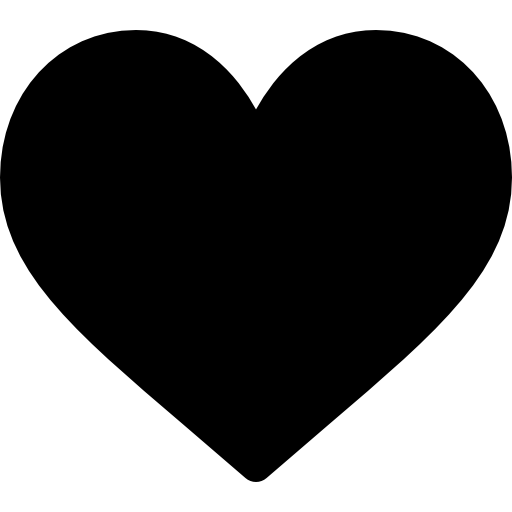
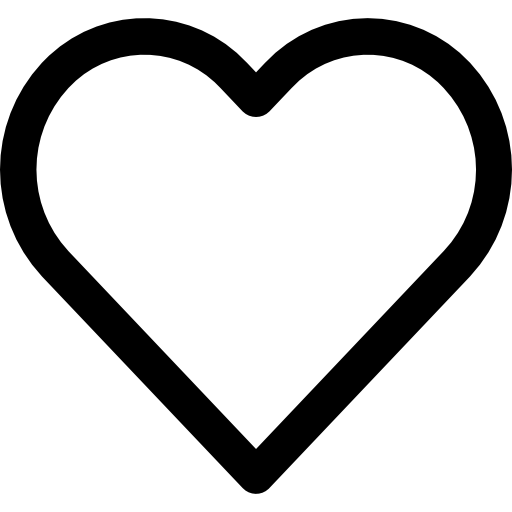
touch up styling

diff --git a/client/src/components/RandomTweet.js b/client/src/components/RandomTweet.js
@@ -5,6 +5,9 @@ import espnImage from '../images/espn.png';
 import laKingsImage from '../images/la_kings.png';
 import disneyImage from '../images/disney.png';
 import starWarsImage from '../images/star-wars.jpg';
+import LikesIcon from '../images/heart.png';
+import RetweetIcon from '../images/retweet.png';
+import { Card } from 'react-bootstrap';
 
 class RandomTweet extends Component {
     constructor(props) {
@@ -55,13 +58,27 @@ class RandomTweet extends Component {
                                     <button className='btn btn-dark btn-space' id='disneyButton' onClick={() => this.handleClick('disney')}>Disney</button>
                             </div>
                                     {this.state.tweet !== null ?
-                                        <div className='tweetCard'>
-                                            <p>username: {this.state.tweet.user.screen_name} </p>
-                                            <p>tweet: {this.state.tweet.text}</p>
-                                            <p>Retweets: {this.state.tweet.retweet_count}</p>
-                                            <p>Favorites: {this.state.tweet.favorite_count}</p>
-                                            <img src={this.state.tweet.user.profile_image_url} alt='user photo'/>
-                                        </div> :
+                                    <Card id='search-card'>
+                                        <Card.Header>
+                                            <Card.Img src={this.state.tweet.user.profile_image_url}
+                                                className='rounded-circle'
+                                                style={{ height: 45, width: 45 }} />
+                                            </Card.Header>
+                                            <Card.Body>
+                                                <Card.Title>{this.state.tweet.user.screen_name}</Card.Title>
+                                                <Card.Text>{this.state.tweet.text}</Card.Text>
+                                            </Card.Body>
+                                            <Card.Footer>
+                                                <small className='icon'>
+                                                    <img src={RetweetIcon} style={{ height: 20, width: 20 }} />
+                                                    {this.state.tweet.retweet_count}
+                                                </small>
+                                                <small className='icon'>
+                                                    <img src={LikesIcon} style={{ height: 20, width: 20 }} />
+                                                    {this.state.tweet.favorite_count}
+                                                </small>
+                                            </Card.Footer>
+                                        </Card> :
                                         null }
                                     
                                 </div>

diff --git a/client/src/components/TweetSearch.js b/client/src/components/TweetSearch.js
@@ -48,7 +48,8 @@ class TweetSearch extends Component {
             <div className='search-page-container'>
                 <div className='tweet-card'>
                     <div className='search-header'>
-                        <h3>Search for a Twitter user</h3>
+                            <h2>Search for a Twitter user</h2>
+                            <p>Use the input field below to search for a user within Twitters API</p>
                     </div>
                     <Form>
                         <Form.Group>
@@ -65,20 +66,20 @@ class TweetSearch extends Component {
                 </div>
                 <div className='search-tweet-container'>
                     {this.state.tweet.map((tweets, index) =>
-                        <Card key={index} id='search-card' style={{ width: '50%' }} className='bg-light'>
+                        <Card key={index} id='search-card'>
                                 <Card.Header>
-                                    <Card.Img className='rounded-circle' variant='top' src={tweets.user.profile_image_url} style={{height: 50, width: 50}} />
-                                    <Card.Title>{tweets.user.screen_name}</Card.Title>
+                                    <Card.Img className='rounded-circle' variant='top' src={tweets.user.profile_image_url} style={{height: 45, width: 45}} />
                                 </Card.Header>
                                 <Card.Body>
+                                    <Card.Title>{tweets.user.screen_name}</Card.Title>
                                     <Card.Text>{tweets.text}</Card.Text>
                                 </Card.Body>
                                 <Card.Footer>
-                                <small>
+                                <small className='icon'>
                                     <img src={RetweetIcon} style={{height: 20, width: 20}} />
                                         {tweets.retweet_count}
                                 </small>
-                                <small>
+                                <small className='icon'>
                                     <img src={LikesIcon} style={{height: 20, width: 20}} />
                                     {tweets.favorite_count}
                                 </small>

diff --git a/client/src/components/HomePage.js b/client/src/components/HomePage.js
@@ -1,5 +1,6 @@
 import React from 'react';
 import 'bootstrap/dist/css/bootstrap.min.css';
+import { Jumbotron, Card } from 'react-bootstrap';
 import axios from 'axios';
 
 
@@ -9,12 +10,20 @@ class HomePage extends React.Component {
     }
     render() {
     return (
-            <div className='page-container'>
+            <div>
                 <main>
-                    <div>
-                    <h2>Welcome to the Twitter Showcase App</h2>
-                    <h3>Use the Random Tweet button to see tweets from 5 of my favorite accounts
-                        or try searching for your own using the search option</h3>
+                <div>
+                    <Card id='welcome-message'>
+                        <Card.Header>
+                            <h2>Twitter Showcase App</h2>
+                        </Card.Header>
+                        <Card.Body>
+                            <Card.Text>This is an application that uses the Twitter API to return Twitter timeline
+                                        data. Simply use the navigation bar to either search for any user in Twitters database or use the random
+                                        button to see tweets from 5 of my favorite accounts. 
+                            </Card.Text>
+                        </Card.Body>
+                    </Card>
                     </div>
                 </main>
             </div>

diff --git a/client/src/index.css b/client/src/index.css
@@ -2,26 +2,22 @@
 	margin: 26px;
 }
 
+.icon {
+	padding: 5px;
+}
+
 #input-form {
 	justify-content: center;
-	margin-top: 50px;
+	margin-top: 20px;
+	margin-bottom: 40px;
 }
 
 nav {
 	background-color: #393e46;
 }
 
-.page-container {
-	background-color: #e8eae6;
-	height: 100vh;
-}
-
-.tweetCard {
-	background-color: #edffec;
-	margin: auto;
-	padding: 20px;
-	height: 10%;
-	width: 50%;
+#tweet-image {
+	justify-content: center;
 }
 
 figure img {
@@ -32,7 +28,7 @@ figure img {
 }
 
 .search-header {
-	background-color: blue;
+	padding: 20px;
 }
 
 #search-card {
@@ -40,4 +36,11 @@ figure img {
 	margin: auto;
 	margin-bottom: 20px;
 	padding: 15px;
+	width: 50%;
+}
+
+#welcome-message {
+	margin: auto;
+	margin-top: 10%;
+	width: 50%;
 }
